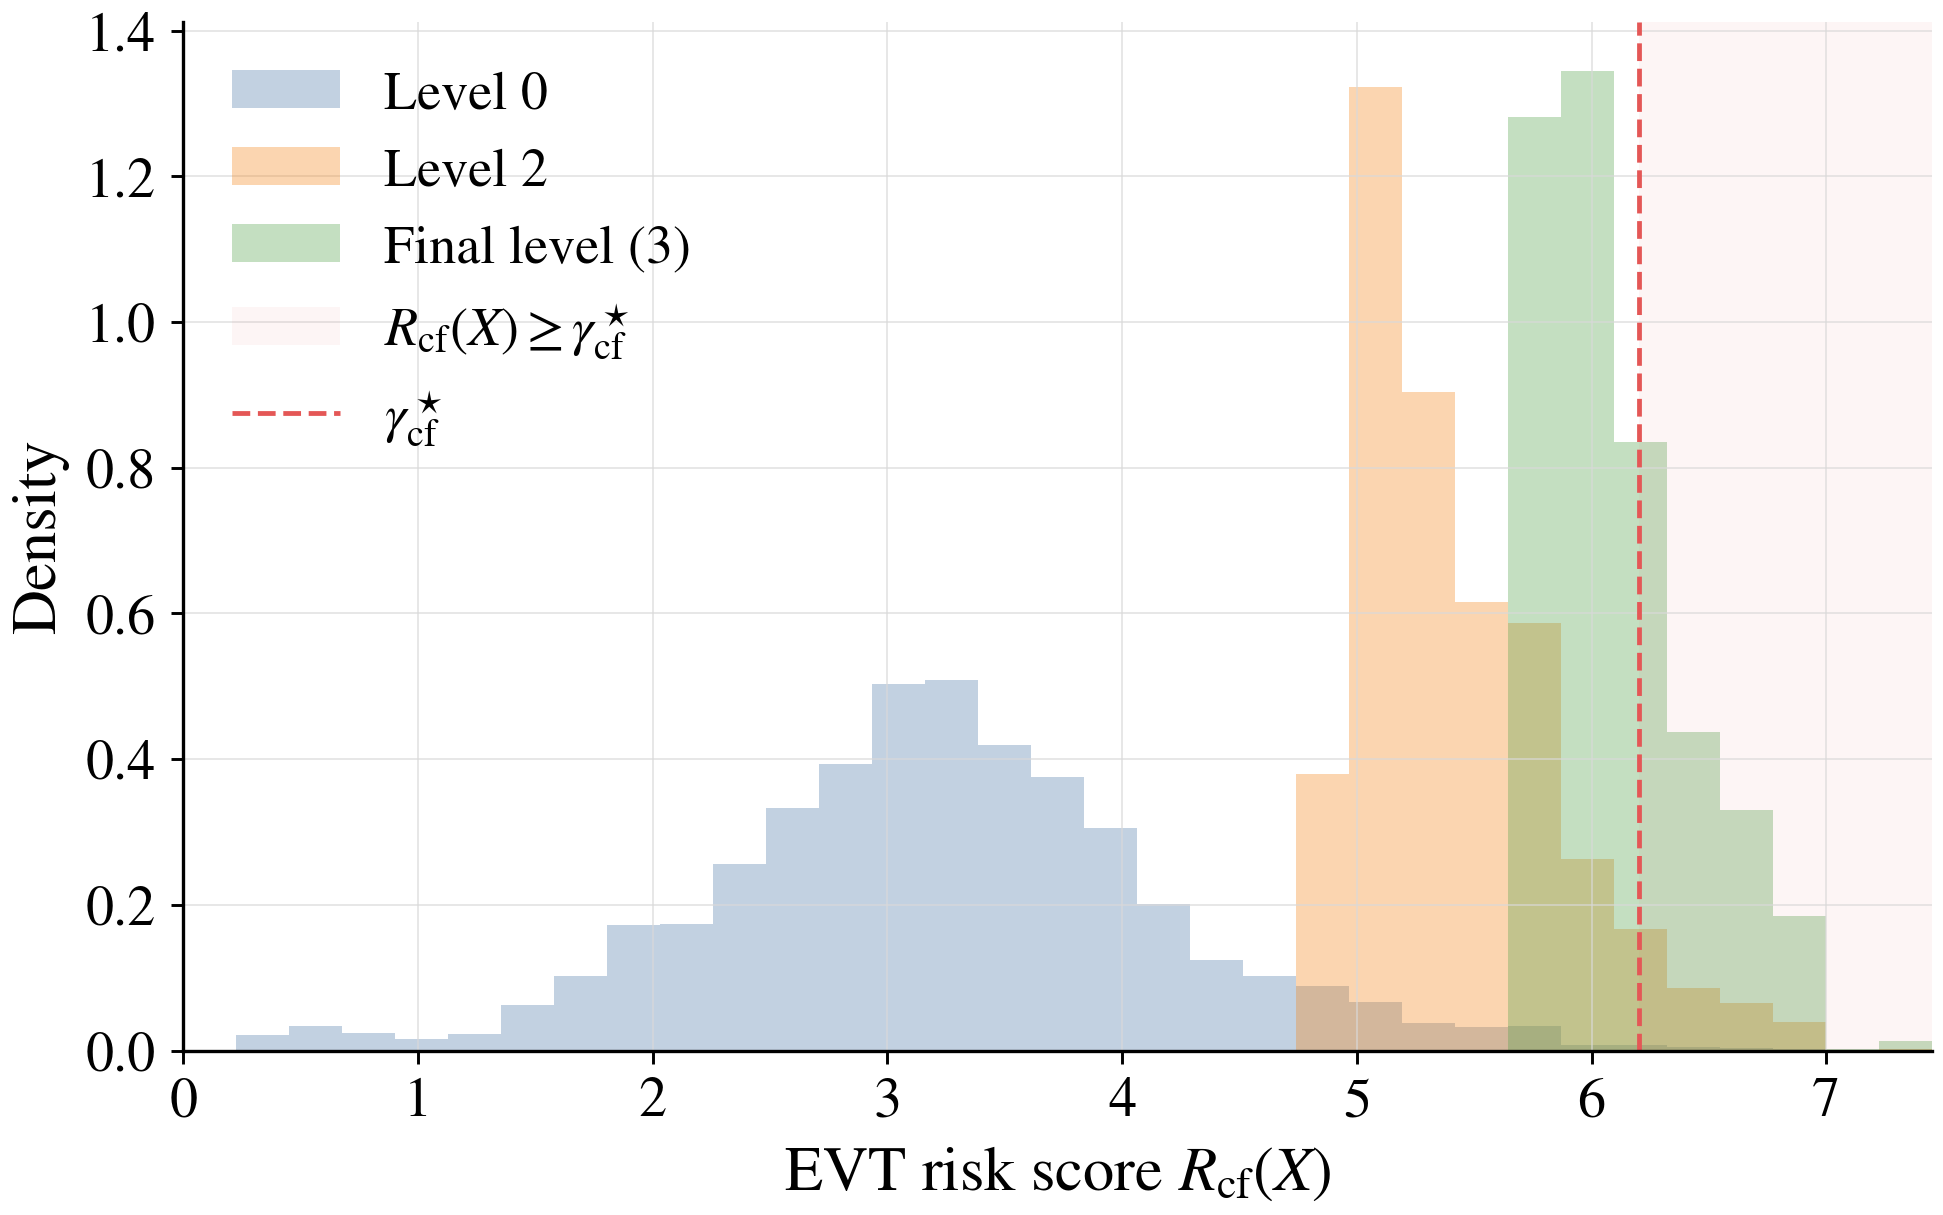
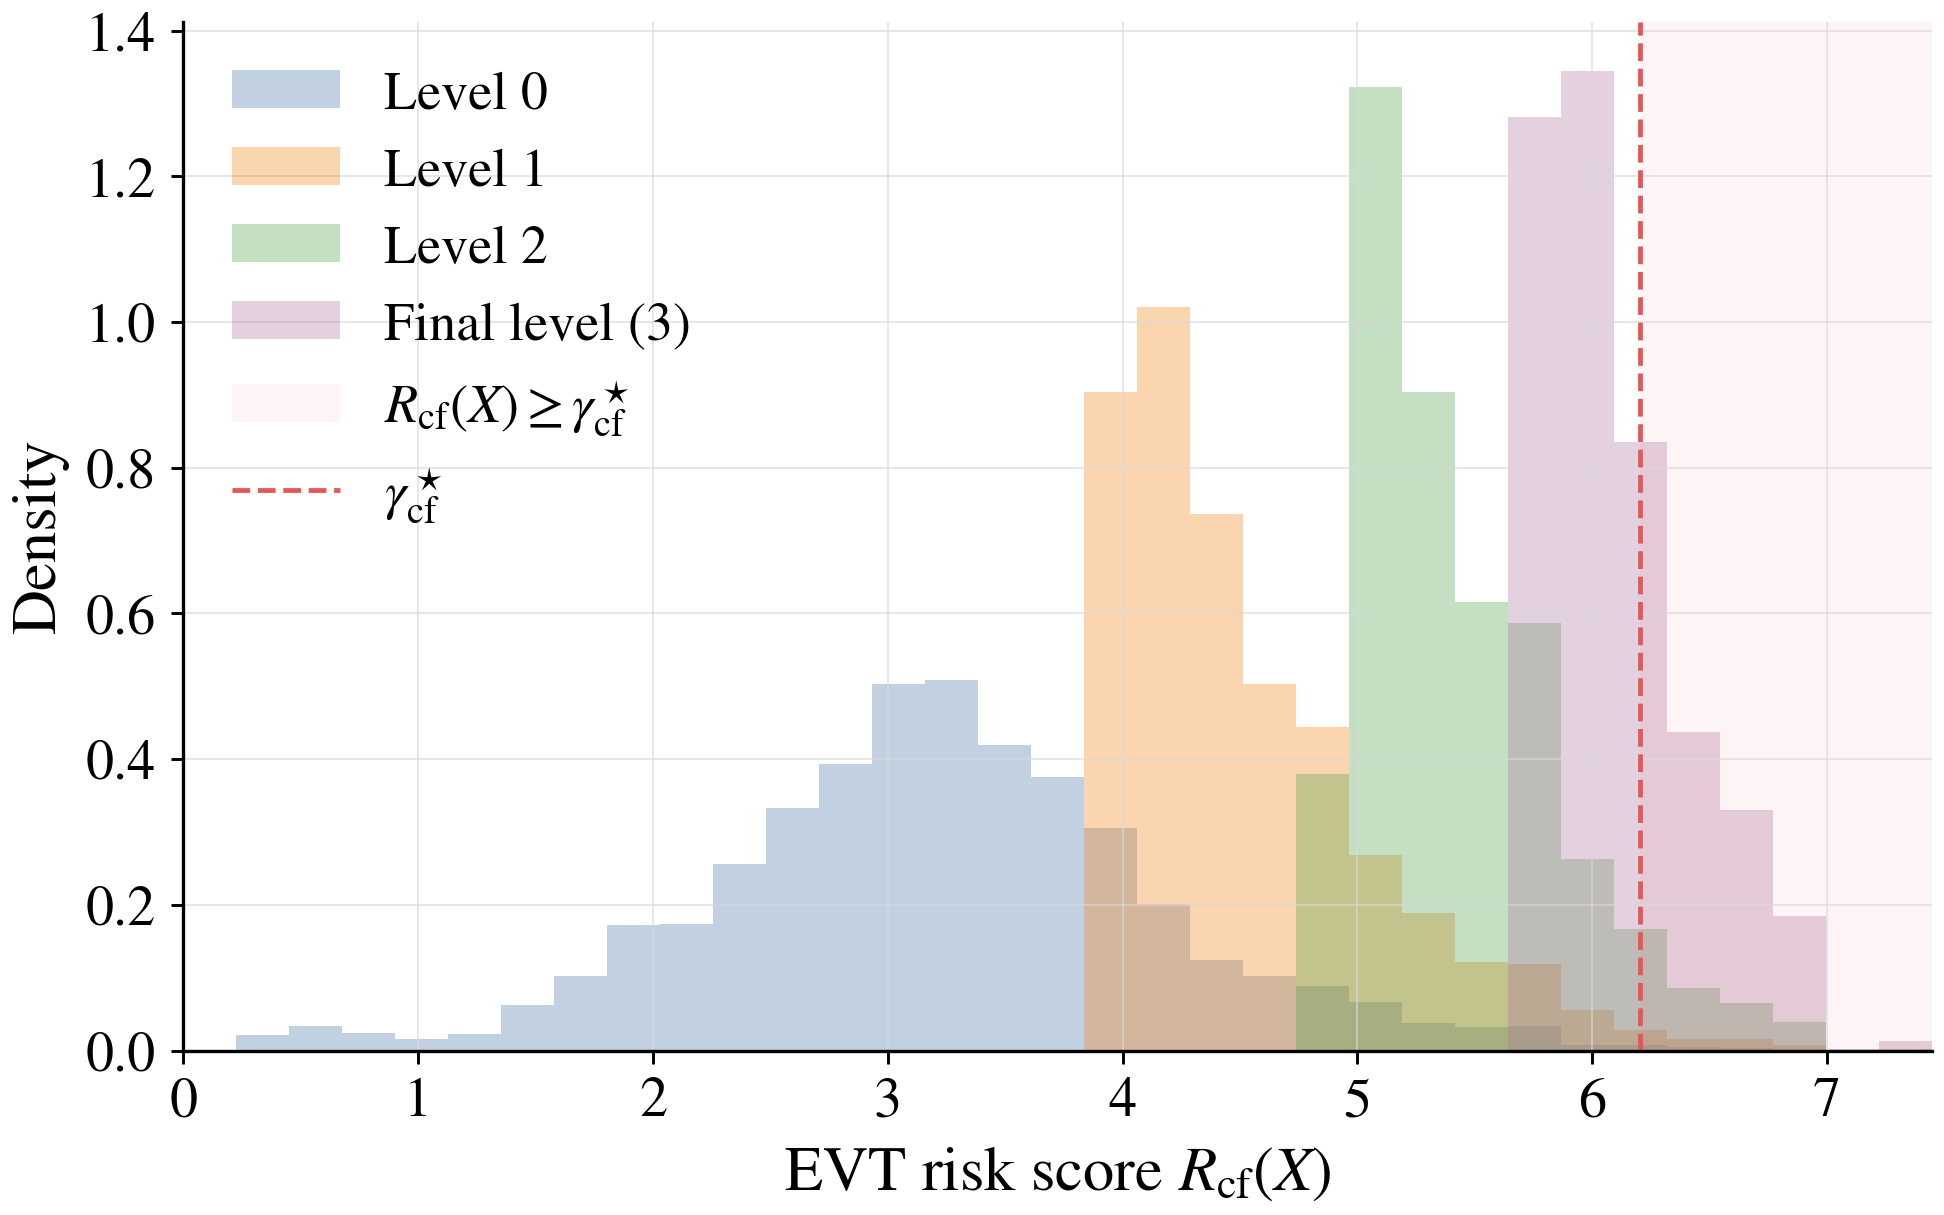
更新切入和跟随实验的文件路径，调整相关文档以反映新的 IDM_subset 结构

diff --git a/results/build_cutin_paper_experiments.py b/results/build_cutin_paper_experiments.py
@@ -60,10 +60,26 @@ LOGS = OUT / "logs"
 SOURCE_PATHS = {
     "event_scores": RESULTS / "highd_events" / "cutin_event_scores.csv",
     "event_cache_summary": RESULTS / "highd_events" / "cutin_event_cache_summary.json",
-    "subset_summary": RESULTS / "subset_simulation_cutin" / "latent_subset_summary.json",
-    "subset_level_stats": RESULTS / "subset_simulation_cutin" / "latent_subset_level_stats.csv",
-    "subset_samples": RESULTS / "subset_simulation_cutin" / "latent_subset_samples.npz",
-    "monte_carlo_summary": RESULTS / "monte_carlo_cutin" / "latent_monte_carlo_summary.json",
+    "subset_summary": ROOT
+    / "IDM_subset"
+    / "results"
+    / "cutin"
+    / "latent_subset_summary.json",
+    "subset_level_stats": ROOT
+    / "IDM_subset"
+    / "results"
+    / "cutin"
+    / "latent_subset_level_stats.csv",
+    "subset_samples": ROOT
+    / "IDM_subset"
+    / "results"
+    / "cutin"
+    / "latent_subset_samples.npz",
+    "monte_carlo_summary": ROOT
+    / "IDM_subset"
+    / "results"
+    / "monte_carlo_cutin"
+    / "latent_monte_carlo_summary.json",
     "cutin_diffusion_dataset": RESULTS / "diffusion_natural" / "cutin" / "dataset.npz",
     "evt_model": RESULTS / "highd_cutin_tail" / "evt" / "cutin_peak_evt_model.json",
     "evt_summary": RESULTS / "highd_cutin_tail" / "evt" / "cutin_peak_evt_summary.json",
@@ -1211,9 +1227,9 @@ def _write_cutin_subset_level_score_histograms(*, force: bool) -> list[str]:
     plt = get_pyplot()
     with plt.rc_context(PAPER_PANEL_RC):
         fig, ax = plt.subplots(figsize=PAPER_SUBSET_HISTOGRAM_FIGSIZE)
-        colors = [REAL_COLOR, GENERATED_COLOR, SAMPLED_COLOR]
+        colors = [REAL_COLOR, GENERATED_COLOR, SAMPLED_COLOR, "#B279A2"]
         level_indices = list(range(scores.shape[0]))
-        if len(level_indices) > 3:
+        if len(level_indices) > len(colors):
             level_indices = [0, len(level_indices) // 2, len(level_indices) - 1]
         for order, level_idx in enumerate(level_indices):
             values = finite_by_level[level_idx]

diff --git a/results/build_following_paper_experiments.py b/results/build_following_paper_experiments.py
@@ -61,7 +61,11 @@ OUT = RESULTS / "paper_experiments" / "following"
 FIGURES = OUT
 
 SOURCE_PATHS = {
-    "subset_samples": RESULTS / "subset_simulation_following" / "latent_subset_samples.npz",
+    "subset_samples": ROOT
+    / "IDM_subset"
+    / "results"
+    / "following"
+    / "latent_subset_samples.npz",
     "evt_model": RESULTS / "highd_following_tail" / "evt" / "longitudinal_peak_evt_model.json",
     "exposure_summary": RESULTS
     / "highd_following_tail"
@@ -1020,9 +1024,9 @@ def following_subset_level_score_histograms(
     plt = get_pyplot()
     with plt.rc_context(PAPER_PANEL_RC):
         fig, ax = plt.subplots(figsize=PAPER_SUBSET_HISTOGRAM_FIGSIZE)
-        colors = [REAL_COLOR, GENERATED_COLOR, SAMPLED_COLOR]
+        colors = [REAL_COLOR, GENERATED_COLOR, SAMPLED_COLOR, "#B279A2"]
         level_indices = list(range(scores.shape[0]))
-        if len(level_indices) > 3:
+        if len(level_indices) > len(colors):
             level_indices = [0, len(level_indices) // 2, len(level_indices) - 1]
         for order, level_idx in enumerate(level_indices):
             values = finite_by_level[level_idx]

diff --git a/results/paper_experiments/cutin/CUTIN_EXPERIMENT_README.md b/results/paper_experiments/cutin/CUTIN_EXPERIMENT_README.md
@@ -7,10 +7,10 @@ No cut-in diffusion training, EVT fitting, or subset simulation rerun was perfor
 
 - `event_scores`: `results/highd_events/cutin_event_scores.csv`
 - `event_cache_summary`: `results/highd_events/cutin_event_cache_summary.json`
-- `subset_summary`: `results/subset_simulation_cutin/latent_subset_summary.json`
-- `subset_level_stats`: `results/subset_simulation_cutin/latent_subset_level_stats.csv`
-- `subset_samples`: `results/subset_simulation_cutin/latent_subset_samples.npz`
-- `monte_carlo_summary`: `results/monte_carlo_cutin/latent_monte_carlo_summary.json`
+- `subset_summary`: `IDM_subset/results/cutin/latent_subset_summary.json`
+- `subset_level_stats`: `IDM_subset/results/cutin/latent_subset_level_stats.csv`
+- `subset_samples`: `IDM_subset/results/cutin/latent_subset_samples.npz`
+- `monte_carlo_summary`: `IDM_subset/results/monte_carlo_cutin/latent_monte_carlo_summary.json`
 - `cutin_diffusion_dataset`: `results/diffusion_natural/cutin/dataset.npz`
 - `evt_model`: `results/highd_cutin_tail/evt/cutin_peak_evt_model.json`
 - `evt_summary`: `results/highd_cutin_tail/evt/cutin_peak_evt_summary.json`
@@ -34,7 +34,7 @@ No cut-in diffusion training, EVT fitting, or subset simulation rerun was perfor
 - reused existing artifact: `cutin_tail_diffusion_generalization_panel: results/highd_cutin_tail/contexts/tail_contexts.npz`
 - reused existing artifact: `cutin_tail_diffusion_generalization_panel: results/highd_cutin_tail/generated/diffusion_generated_scenarios.npz`
 - reused existing artifact: `cutin_tail_diffusion_generalization_panel: results/diffusion_natural/cutin/dataset.npz`
-- reused existing artifact: `cutin_subset_level_score_histograms: results/subset_simulation_cutin/latent_subset_samples.npz`
+- reused existing artifact: `cutin_subset_level_score_histograms: IDM_subset/results/cutin/latent_subset_samples.npz`
 
 ## Skipped Artifacts
 

diff --git a/results/paper_experiments/following/FOLLOWING_EXPERIMENT_README.md b/results/paper_experiments/following/FOLLOWING_EXPERIMENT_README.md
@@ -5,7 +5,7 @@ No following diffusion training, EVT fitting, subset simulation, or tables were 
 
 ## Inputs
 
-- `subset_samples`: `results/subset_simulation_following/latent_subset_samples.npz`
+- `subset_samples`: `IDM_subset/results/following/latent_subset_samples.npz`
 - `evt_model`: `results/highd_following_tail/evt/longitudinal_peak_evt_model.json`
 - `exposure_summary`: `results/highd_following_tail/exposure/highd_exposure_summary.json`
 - `tail_condition_distribution`: `results/highd_following_tail/contexts/scenario_condition_distribution.npz`
@@ -31,7 +31,7 @@ No following diffusion training, EVT fitting, subset simulation, or tables were 
 - reused existing artifact: `following_tail_diffusion_generalization_panel: results/highd_following_tail/generated/diffusion_generated_scenarios.npz`
 - reused existing artifact: `following_tail_diffusion_generalization_panel: results/highd_events/following_event_segments.npz`
 - reused existing artifact: `following_tail_diffusion_acceleration_profiles: results/highd_following_tail/generated/diffusion_generated_scenarios.npz`
-- reused existing artifact: `following_subset_level_score_histograms: results/subset_simulation_following/latent_subset_samples.npz`
+- reused existing artifact: `following_subset_level_score_histograms: IDM_subset/results/following/latent_subset_samples.npz`
 
 ## Skipped Artifacts
 
